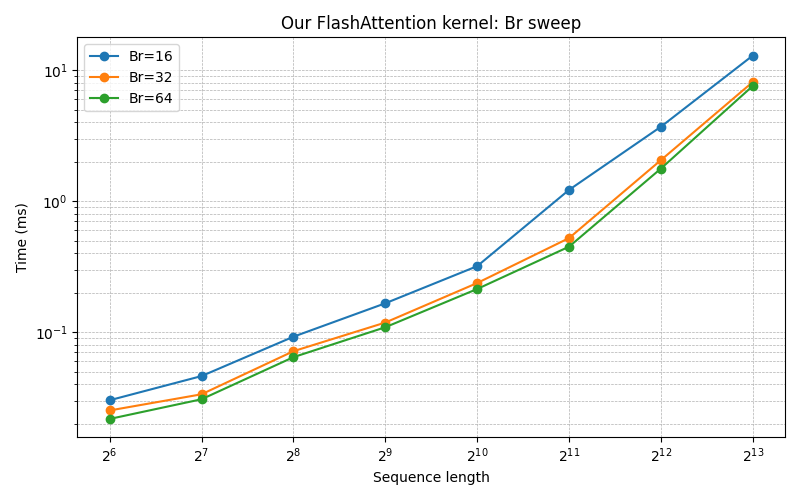
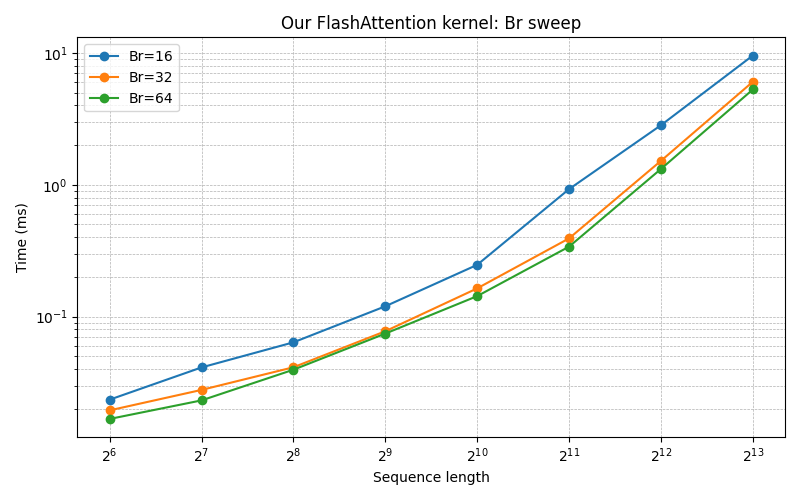
softmax calculation using wmma layout
Eliminate intermediate s_A (float) buffer and ompute row-wise max and exp sums directly from acc_frag
Reduce shared memory usage (~50KB → ~41KB)

diff --git a/src/test_perf.py b/src/test_perf.py
@@ -7,6 +7,7 @@ from attention import MultiHeadAttentionBlock
 from flash_attn.flash_attn_interface import flash_attn_func
 
 IS_BENCH = "-bench" in sys.argv
+IS_DEBUG = "-debug" in sys.argv
 
 # cuda_build folder path
 current_dir = os.path.dirname(os.path.abspath(__file__))
@@ -23,15 +24,15 @@ batch_size = 1
 d_model = 64
 num_heads = 1
 head_dim = d_model // num_heads
-seq_lens = [64, 128, 256, 512, 1024, 2048, 4096, 8192]
-'''247, '''
+seq_lens = [64, 128, 256, 512, 1024, 2048, 4096, 8192,] if not IS_DEBUG else [64]
+''' 247, 8192*2'''
 mask = None
 
 attentionBlock = MultiHeadAttentionBlock(d_model, num_heads, dropout=0.0).cuda().float()
 
 results = []
-num_iters = 1000 if IS_BENCH else 50
-num_warms = 100 if IS_BENCH else 5
+num_iters = 1000 if IS_BENCH else 1 if IS_DEBUG else 50
+num_warms = 100 if IS_BENCH else 0 if IS_DEBUG else 5
 Br = 64 if IS_BENCH else 64
 # Br sweep (powers of two, starting from 16)
 Br_list = [16, 32, 64]
@@ -60,12 +61,13 @@ for seq_len in seq_lens:
     print(f"q_cuda shape: {q_cuda.shape}")  # need to be (batch, num_heads, seq_len, head_dim)
     
     # our kernel check
-    try:
-        output = forward(q_cuda, k_cuda, v_cuda, scale=1.0, Br=Br)
-        print(f"Output contains nan: {torch.isnan(output).any()}")
-        print(f"Output contains inf: {torch.isinf(output).any()}")
-    except Exception as e:
-        print(f"Error during forward call: {e}")
+    if (not IS_DEBUG):
+        try:
+            output = forward(q_cuda, k_cuda, v_cuda, scale=1.0, Br=Br)
+            print(f"Output contains nan: {torch.isnan(output).any()}")
+            print(f"Output contains inf: {torch.isinf(output).any()}")
+        except Exception as e:
+            print(f"Error during forward call: {e}")
 
     def torch_reference_attention(q, k, v, scale=1.0):
         qf = q.float()
@@ -80,8 +82,41 @@ for seq_len in seq_lens:
 
     output_cuda = forward(q_cuda, k_cuda, v_cuda, scale=1.0, Br=Br)
     output_ref = torch_reference_attention(q_cuda, k_cuda, v_cuda)
-    diff = (output_cuda.float() - output_ref.float()).abs()
-    print(f"Max diff: {diff.max().item():.9f}")
+
+    # --- diff нашего ядра ---
+    diff_cuda = (output_cuda.float() - output_ref.float()).abs()
+    print(f"Our kernel max diff vs ref: {diff_cuda.max().item():.9f}")
+
+    # --- FLASH ATTN OUTPUT ---
+    output_flash = flash_attn_func(
+        qkv,
+        cu_seqlens,
+        0.0,
+        seq_len,
+        softmax_scale=1.0 / math.sqrt(head_dim),
+        causal=False
+    )
+
+    # flash_attn_func возвращает (total_q, num_heads, head_dim)
+    # приводим к (batch, heads, seq_len, head_dim)
+    output_flash = output_flash.view(batch_size, seq_len, num_heads, head_dim) \
+                            .transpose(1, 2) \
+                            .contiguous()
+
+    # --- diff flash attn ---
+    diff_flash = (output_flash.float() - output_ref.float()).abs()
+    print(f"Torch max diff vs ref: {diff_flash.max().item():.9f}")
+
+    rel_diff_cuda = (
+        (output_cuda.float() - output_ref.float()).abs() /
+        (output_ref.float().abs() + 1e-6)
+    )
+    rel_diff_flash = (
+        (output_flash.float() - output_ref.float()).abs() /
+        (output_ref.float().abs() + 1e-6)
+    )
+    print(f"Our mean relative diff: {rel_diff_cuda.mean().item():.9f}")
+    print(f"Torch mean relative diff: {rel_diff_flash.mean().item():.9f}")
     
     startCore = torch.cuda.Event(enable_timing=True)
     endCore = torch.cuda.Event(enable_timing=True)
@@ -91,7 +126,8 @@ for seq_len in seq_lens:
     endFlash = torch.cuda.Event(enable_timing=True)
     startOurCuda = torch.cuda.Event(enable_timing=True)
     endOurCuda = torch.cuda.Event(enable_timing=True)
-
+    if (IS_DEBUG):
+        sys.exit(0)
     # GPU warm up
     for _ in range(num_warms):
         with torch.no_grad():
